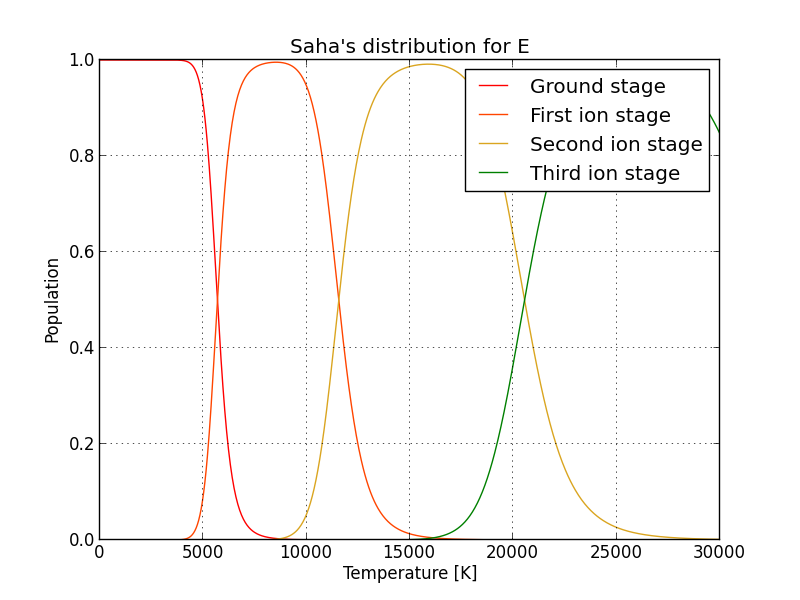
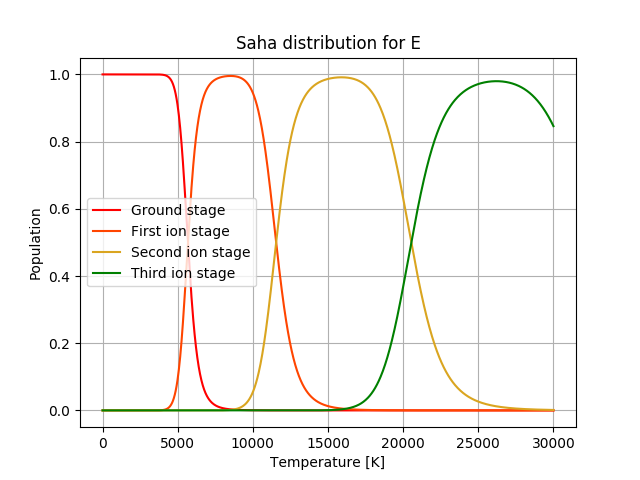
did some changes in the plotting functions and changed the chi_ion energy for Ca

diff --git a/SSA/SSA2.py b/SSA/SSA2.py
@@ -12,6 +12,8 @@ P_e = 1e3                              # Electron pressure (dyne cm^-2)
 
 colors = ['red', 'orangered', 'goldenrod', 'green',  'blue', 'purple', 'magenta']
 
+
+
 """ Defining functions """
 def partfunc_E(T):
     U = np.zeros(4)                     # Create a 4 zero-element array
@@ -31,6 +33,8 @@ def boltz_E(T, r, s):
 
 
 def saha_E(T, P_e, r): #ionstage):
+    chi_ion = np.array([6, 12, 51, 67])
+
     el_dens = P_e / (k_erg*T)
 
     U = partfunc_E(T)
@@ -108,7 +112,7 @@ def plot_boltz():
     plt.ylim([1e-4, 1.5])
     plt.xlabel('Temperature [K]')
     plt.ylabel('Population')
-    plt.title('Boltzmann\'s distribution for E')
+    plt.title('Boltzmann distribution for E')
     plt.legend(loc='best')
     plt.grid()
     plt.show()
@@ -131,11 +135,10 @@ def plot_saha():
     #plt.ylim([1e-4, 1.5])
     plt.xlabel('Temperature [K]')
     plt.ylabel('Population')
-    plt.title('Saha\'s distribution for E')
+    plt.title('Saha distribution for E')
     plt.legend(loc='best')
     plt.grid()
     plt.show()
-
 
 
 
@@ -165,7 +168,6 @@ def paynes_curves(s):
     plt.show()
 
 
-
 def line_strength_ratio():
     temp = np.arange(1000,20001,100)
     CaH = np.zeros(temp.shape)
@@ -185,8 +187,6 @@ def line_strength_ratio():
 
     print 'Ca/H ratio at 5000 K = ', CaH[np.argwhere(temp==5000)][0][0]
 
-
-line_strength_ratio()
 
 
 def temp_sensitivity():
@@ -211,14 +211,17 @@ def temp_sensitivity():
     plt.figure()
     plt.plot(temp,np.absolute(dNHdT), label=r'H')
     plt.plot(temp,np.absolute(dNCadT), label=r'Ca$^+$K')
-    plt.plot(temp,NH/np.amax(NH), ls='--',  label = 'rel. pop. H')
-    plt.plot(temp,NCa/np.amax(NCa), ls='--', label = r'rel. pop. Ca$^+$')
+    plt.plot(temp,NH/np.amax(NH), ls='--',  label = 'Rel. population H')
+    plt.plot(temp,NCa/np.amax(NCa), ls='--', label = r'Rel. population Ca$^+$')
     plt.yscale('log')
-    plt.xlabel(r'temperature $T/K$', size=14)
-    plt.ylabel(r'$\left| \left( \Delta n(r,s) / \Delta T \right) /  n(r,s) \right|$', size=20)
-    plt.legend(loc=4, fontsize=12)
+    plt.xlabel('Temperature [K]', size=14)
+    plt.axis([1800,12200, 1e-8, 1.5])
+    plt.ylabel(r'$\left| \left( \frac{\Delta n_{r,s}}{\Delta T} \right) /  n_{r,s} \right|$', size=20)
+    plt.legend(loc='best', fontsize=12)
+    plt.title('Temperature sensitivity', fontsize=15)
     plt.grid()
     plt.show()
+
 
 def hot_vs_cool():
     for T in np.arange(2e3,2e4+1,2e3):
@@ -228,8 +231,12 @@ def hot_vs_cool():
     for i in range(191):
         nH[i] = saha_boltz_H(temp[i],1e2,1)
     plt.plot(temp,nH)
+    plt.hlines(0.5, 1e3, 2e4, 'magenta', linestyle='--')
     plt.xlabel('temperature $T/K$', size=14)
     plt.ylabel('neutral hydrogen fraction', size=14)
     plt.legend()
     plt.grid()
     plt.show()
+
+
+hot_vs_cool()
